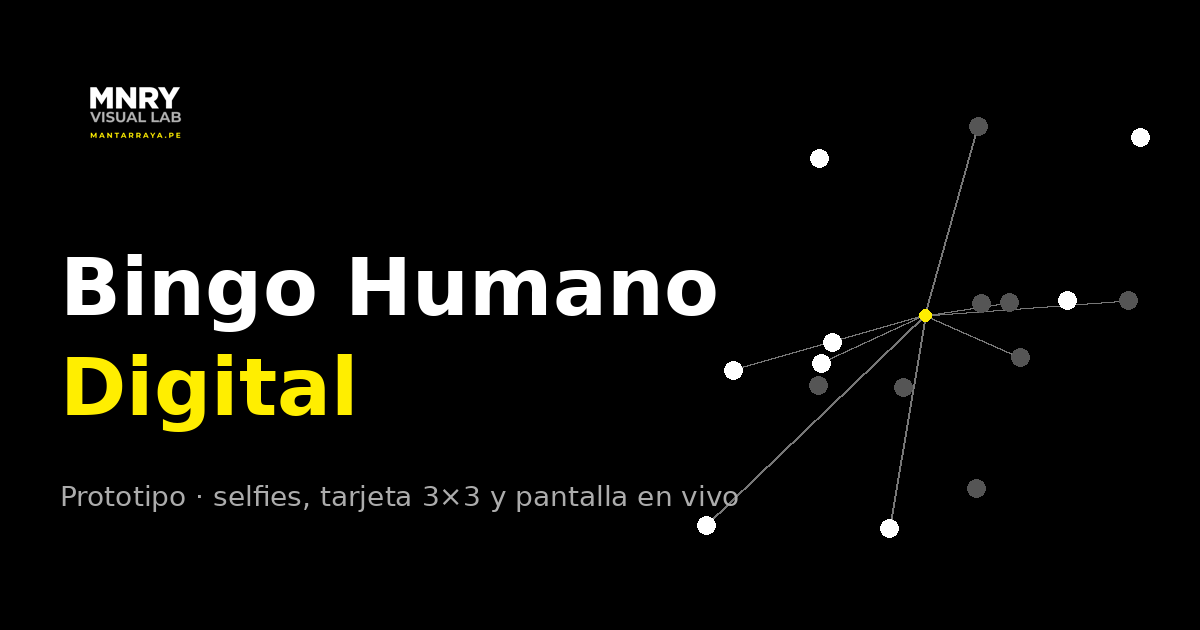
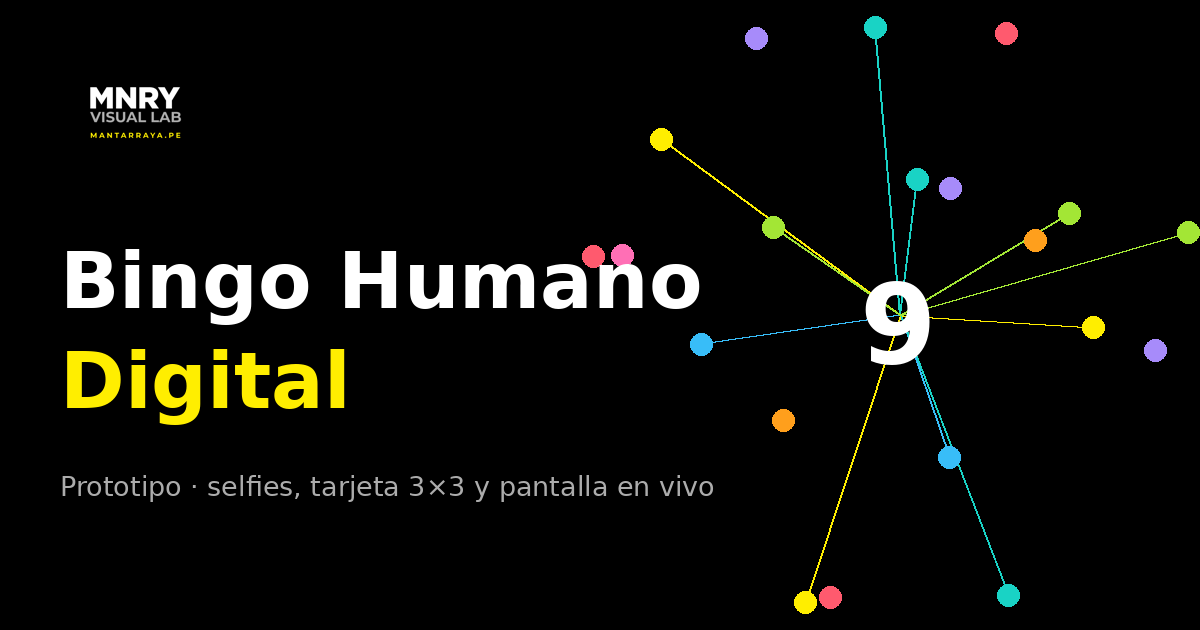
Bingo Humano: interfaz más alegre (colores vivos, letra redondeada, confeti)
Claude-Session: https://claude.ai/code/session_012zVcptRNUigEmjnsZx244j

diff --git a/bingo-humano/index.html b/bingo-humano/index.html
@@ -6,75 +6,89 @@
 <meta property="og:description" content="Simulación del juego de networking con selfies: celular, tarjeta 3×3, pantalla del evento y podio. Por MNRY Visual Lab.">
 <meta property="og:image" content="https://bingo-humano.onrender.com/og.png"><meta property="og:image:width" content="1200"><meta property="og:image:height" content="630">
 <meta property="og:type" content="website">
+<link href="https://fonts.googleapis.com/css2?family=Fredoka:wght@400;500;600;700&family=Nunito:wght@500;700;800&display=swap" rel="stylesheet">
 <style>
-:root{--dk:#000000;--dk2:#1c1c1c;--lt:#F2F2F2;--a1:#FFEE00;--a2:#ACACAC;--a3:#818181;--a4:#D9D9D9;--mut:#9a9a9a}
+:root{--ye:#FFEE00;--co:#FF5A6E;--tu:#19D3C5;--vi:#A78BFA;--li:#A3E635;--or:#FF9F1C;--sk:#38BDF8;--pk:#FF6FB5;--ink:#1a1a2e;--mut:#9a9a9a}
 *{box-sizing:border-box;margin:0}
-body{font-family:Calibri,Segoe UI,Arial,sans-serif;background:var(--dk);color:#fff;min-height:100vh}
+body{font-family:Nunito,Segoe UI,Arial,sans-serif;background:#000;color:#fff;min-height:100vh}
 header{padding:14px 22px;display:flex;justify-content:space-between;align-items:center;flex-wrap:wrap;gap:8px}
-.logo{letter-spacing:.3em;font-size:12px;color:var(--mut);font-weight:700}
-h1{font-family:Cambria,Georgia,serif;font-size:22px}
+h1{font-family:Fredoka,Nunito,sans-serif;font-size:24px;font-weight:600}
 .bar{display:flex;gap:8px;flex-wrap:wrap}
-button{font:inherit;cursor:pointer;border:0;border-radius:10px;padding:9px 14px;font-weight:700;background:var(--a1);color:var(--dk)}
-button.s{background:var(--dk2);color:#fff}
+button,select{font:inherit;cursor:pointer;border:0;border-radius:999px;padding:10px 18px;font-weight:800;background:var(--ye);color:#000}
+button.s,select{background:#1f1f1f;color:#fff}
 button:disabled{opacity:.4;cursor:default}
-main{display:grid;grid-template-columns:360px 1fr;gap:20px;padding:0 22px 22px;align-items:start}
+button:active{transform:scale(.97)}
+main{display:grid;grid-template-columns:370px 1fr;gap:20px;padding:0 22px 22px;align-items:start}
 @media(max-width:900px){main{grid-template-columns:1fr}}
-.phone{background:#000;border-radius:34px;padding:14px;border:2px solid var(--dk2);max-width:360px;margin:auto;width:100%}
-.ps{background:var(--lt);color:var(--dk);border-radius:22px;min-height:560px;padding:18px;display:flex;flex-direction:column;gap:12px}
-.ps h2{font-family:Cambria,Georgia,serif;font-size:20px}
-.ps p.m{color:#5a6780;font-size:14px}
-input{font:inherit;padding:12px;border-radius:10px;border:2px solid #cdd5e3;width:100%}
-input:focus{outline:0;border-color:var(--a1)}
-.grid{display:grid;grid-template-columns:repeat(3,1fr);gap:8px}
-.sq{aspect-ratio:1;border-radius:12px;background:#fff;border:2px dashed #cdd5e3;padding:6px;font-size:11px;font-weight:700;display:flex;align-items:center;justify-content:center;text-align:center;cursor:pointer;position:relative;line-height:1.15}
-.sq.done{border:0;color:var(--dk);cursor:default;align-items:flex-end}
-.sq.done .ph{position:absolute;inset:0;border-radius:12px;display:flex;align-items:center;justify-content:center;font-size:30px;opacity:.9}
-.sq.done span{position:relative;background:rgba(255,255,255,.85);border-radius:6px;padding:1px 5px;font-size:11px}
-.sheet{background:#fff;border-radius:14px;padding:14px;box-shadow:0 4px 18px rgba(0,0,0,.2);display:flex;flex-direction:column;gap:10px}
-.sheet .r{font-weight:700}
+.phone{background:#111;border-radius:38px;padding:12px;border:2px solid #2a2a2a;max-width:370px;margin:auto;width:100%}
+.ps{background:linear-gradient(180deg,#FFF9DB,#FFFFFF 40%);color:var(--ink);border-radius:28px;min-height:580px;padding:18px;display:flex;flex-direction:column;gap:12px}
+.ps h2{font-family:Fredoka,Nunito,sans-serif;font-size:24px;font-weight:600}
+.ps p.m{color:#5b5b73;font-size:14px;font-weight:700}
+.badge{align-self:flex-start;background:var(--ye);color:#000;font-weight:800;font-size:12px;letter-spacing:.12em;border-radius:999px;padding:5px 12px}
+input{font:inherit;font-weight:700;padding:13px 16px;border-radius:16px;border:3px solid #e6e6ef;width:100%}
+input:focus{outline:0;border-color:var(--ye);box-shadow:0 0 0 4px #fff3a0}
+.grid{display:grid;grid-template-columns:repeat(3,1fr);gap:9px}
+.sq{aspect-ratio:1;border-radius:18px;padding:6px;font-size:11.5px;font-weight:800;display:flex;flex-direction:column;align-items:center;justify-content:center;gap:3px;text-align:center;cursor:pointer;line-height:1.1;color:var(--ink);box-shadow:0 3px 0 rgba(0,0,0,.12);transition:transform .12s}
+.sq:hover{transform:translateY(-2px) rotate(-1deg)}
+.sq .e{font-size:24px}
+.sq.done{cursor:default;position:relative}
+.sq.done:hover{transform:none}
+.sq.done .ck{position:absolute;top:5px;right:6px;background:#fff;border-radius:999px;width:20px;height:20px;font-size:12px;display:flex;align-items:center;justify-content:center}
+.sq.done b{font-family:Fredoka,sans-serif;font-size:14px;font-weight:600}
+.prog{height:12px;border-radius:999px;background:#ececf4;overflow:hidden}
+.prog i{display:block;height:100%;background:linear-gradient(90deg,var(--ye),var(--or),var(--co));border-radius:999px;transition:width .4s}
+.sheet{background:#fff;border-radius:18px;padding:14px;box-shadow:0 6px 20px rgba(26,26,46,.12);display:flex;flex-direction:column;gap:10px}
+.sheet .r{font-weight:800}
 .opts{display:flex;flex-direction:column;gap:6px;max-height:190px;overflow:auto}
-.opt{padding:10px;border-radius:8px;background:var(--lt);cursor:pointer;font-weight:600}
-.opt:hover{background:#fff7a8}
-.err{color:#c0334a;font-size:13px;font-weight:700;min-height:16px}
-.q{background:#fffbd1;border-radius:10px;padding:10px;font-size:14px}
-.screen{background:var(--dk2);border-radius:16px;padding:14px}
+.opt{padding:11px 14px;border-radius:14px;background:#f4f4fa;cursor:pointer;font-weight:800}
+.opt:hover{background:#fff3a0}
+.err{color:#d6284a;font-size:13px;font-weight:800;min-height:16px}
+.q{background:#FFF3B0;border-radius:14px;padding:11px 12px;font-size:14px;font-weight:700}
+.screen{background:#0c0c14;border-radius:22px;padding:14px;border:1px solid #23233a}
 .top{display:flex;justify-content:space-between;align-items:center;margin-bottom:8px;flex-wrap:wrap;gap:6px}
-.top b{font-family:Cambria,Georgia,serif;font-size:18px}
-.cols{display:grid;grid-template-columns:1fr 230px;gap:12px}
+.top b{font-family:Fredoka,sans-serif;font-size:20px;font-weight:600}
+.cols{display:grid;grid-template-columns:1fr 240px;gap:12px}
 @media(max-width:700px){.cols{grid-template-columns:1fr}}
-svg{width:100%;background:radial-gradient(ellipse at 50% 40%,#2b2b2b,#000000 75%);border-radius:12px;display:block}
-.rank{background:var(--dk);border-radius:12px;padding:10px;font-size:14px}
-.rank h3{font-size:13px;color:var(--mut);letter-spacing:.15em;margin-bottom:6px}
-.row{display:flex;justify-content:space-between;padding:4px 0;border-bottom:1px solid var(--dk2)}
-.row.me{color:var(--a1);font-weight:700}
-.podium{display:none;margin-top:12px;background:var(--dk);border-radius:12px;padding:14px;text-align:center}
+svg{width:100%;background:radial-gradient(ellipse at 50% 45%,#1f1f3a,#07070d 75%);border-radius:16px;display:block}
+.rank{background:#13131f;border-radius:16px;padding:12px;font-size:14px;font-weight:700}
+.rank h3{font-family:Fredoka,sans-serif;font-size:13px;color:#b9b9d0;letter-spacing:.14em;margin-bottom:6px;font-weight:600}
+.row{display:flex;justify-content:space-between;align-items:center;padding:5px 0;gap:8px}
+.row .bar2{height:6px;border-radius:99px;background:#26263a;flex:1;overflow:hidden;max-width:60px}
+.row .bar2 i{display:block;height:100%;background:var(--ye)}
+.row.me{color:var(--ye)}
+.podium{display:none;margin-top:12px;background:#13131f;border-radius:18px;padding:16px;text-align:center}
 .podium.on{display:block}
-.pod{display:flex;justify-content:center;align-items:flex-end;gap:10px;margin-top:8px}
-.pod div{width:90px;border-radius:8px 8px 0 0;padding:8px 4px;font-weight:700;color:var(--dk)}
+.podium .t{font-family:Fredoka,sans-serif;font-size:24px;font-weight:600}
+.pod{display:flex;justify-content:center;align-items:flex-end;gap:10px;margin-top:10px}
+.pod div{width:104px;border-radius:14px 14px 0 0;padding:10px 4px;font-family:Fredoka,sans-serif;font-weight:600;color:#1a1a2e;font-size:15px}
+.pod .md{font-size:26px;display:block}
 .note{font-size:12px;color:var(--mut);margin-top:10px}
+canvas#cf{position:fixed;inset:0;width:100%;height:100%;pointer-events:none;z-index:50}
 </style></head><body>
+<canvas id="cf"></canvas>
 <header><div><img src="logo.png" alt="MNRY Visual Lab" style="height:46px;display:block;margin-bottom:6px"><h1>Bingo Humano Digital · Prototipo</h1></div>
-<div class="bar"><select id="selN" style="font:inherit;padding:9px;border-radius:10px;border:0;background:#1c1c1c;color:#fff;font-weight:700"><option value="30">30 personas</option><option value="80" selected>80 personas</option><option value="150">150 personas</option></select><button class="s" id="bTime">Terminar el tiempo</button><button class="s" id="bReset">Reiniciar</button></div></header>
+<div class="bar"><select id="selN"><option value="30">30 personas</option><option value="80" selected>80 personas</option><option value="150">150 personas</option></select><button class="s" id="bTime">Terminar el tiempo</button><button class="s" id="bReset">Reiniciar</button></div></header>
 <main>
 <div class="phone"><div class="ps" id="ps"></div></div>
 <div>
  <div class="screen">
-  <div class="top"><b>Pantalla del evento</b><span id="stat" style="color:var(--mut);font-size:14px"></span></div>
-  <div class="cols"><svg id="map" viewBox="0 0 800 520"></svg><div class="rank"><h3>RANKING</h3><div id="rk"></div><h3 style="margin-top:12px">ÚLTIMAS SELFIES</h3><div id="feed" style="font-size:13px;color:#d0d0d0"></div></div></div>
-  <div class="podium" id="pod"><div style="font-family:Cambria,Georgia,serif;font-size:20px">¡Juego terminado!</div><div class="pod" id="podx"></div></div>
+  <div class="top"><b>Pantalla del evento</b><span id="stat" style="color:#b9b9d0;font-size:14px;font-weight:700"></span></div>
+  <div class="cols"><svg id="map" viewBox="0 0 800 520"></svg><div class="rank"><h3>RANKING</h3><div id="rk"></div><h3 style="margin-top:12px">ÚLTIMAS SELFIES</h3><div id="feed" style="font-size:13px;color:#d6d6e6;font-weight:600"></div></div></div>
+  <div class="podium" id="pod"><div class="t" id="podt">¡Juego terminado!</div><div class="pod" id="podx"></div></div>
  </div>
- <p class="note">Simulación: el centro muestra un reto y cuántas personas ya lo cumplieron; esas personas se iluminan y cambia de reto solo. Tú eres un punto más (el amarillo). Los otros jugadores son de ejemplo y se conectan solos. Cambia arriba entre 30, 80 y 150 personas para ver cómo se llena la pantalla. En el evento real cada persona usa su propio celular y las fotos se quedan en el celular.</p>
+ <p class="note">Simulación: el centro muestra un reto y cuántas personas ya lo cumplieron; esas personas se iluminan y el reto cambia solo. Tú eres un punto más (el que tiene aro blanco). Los otros jugadores son de ejemplo y se conectan solos. Cambia arriba entre 30, 80 y 150 personas. En el evento real cada persona usa su propio celular y las fotos se quedan en el celular.</p>
 </div>
 </main>
 <script>
 const FN=["Ana","Luis","Marta","Diego","Rosa","Carlos","Sofía","Jorge","Lucía","Pedro","Valeria","Andrés","Camila","Renzo","Milagros","Hugo","Daniela","Mateo","Elena","Raúl","Paola","Iván","Nora","Fabio","Karla","Óscar","Julia","Percy","Alicia","Rodrigo"];
 const LN="ABCDEFGHJLMPRSTV";
-function mkNames(n){const a=[];for(let i=0;i<n;i++){const f=FN[i%FN.length];a.push(i<FN.length?f:f+" "+LN[(i*7)%LN.length]+".")}return a}
 const RETOS=["Ha viajado a más de 5 países","Habla otro idioma","Tiene mascota","Toca un instrumento","Le gusta cocinar","Nació fuera de Lima","Trabaja en marketing","Hace deporte","Tiene hermanos gemelos o mellizos"];
+const EM=["✈","🗣","🐾","🎸","🍳","📍","💼","⚽","👯"];
 const PREG=["¿Cuál es tu comida favorita?","¿Qué lugar te gustaría visitar?","¿Qué serie recomiendas?","¿Cuál fue tu primer trabajo?","¿Qué hacías de niño los sábados?","¿Qué canción no puede faltar en una fiesta?"];
-const COL=["#FFEE00","#2EC4B6","#E85D75","#5B8DEF","#FFD27F"];
-const EMO=["🤳","😄","📸","🙌","😎","🤝"];
+const COL=["#FFEE00","#FF8FA0","#5EEAD4","#C4B5FD","#BEF264","#FFC15E","#7DD3FC","#FFA6D2","#FFE08A"];
+const PC=["#FFEE00","#FF5A6E","#19D3C5","#A78BFA","#A3E635","#FF9F1C","#38BDF8","#FF6FB5"];
 let G=null;
+function mkNames(n){const a=[];for(let i=0;i<n;i++){const f=FN[i%FN.length];a.push(i<FN.length?f:f+" "+LN[(i*7)%LN.length]+".")}return a}
 function layout(n){
  const W=800,H=500,pts=Array.from({length:n},()=>({x:40+Math.random()*(W-80),y:30+Math.random()*(H-60)}));
  for(let it=0;it<70;it++){for(let i=0;i<n;i++)for(let j=i+1;j<n;j++){let dx=pts[j].x-pts[i].x,dy=pts[j].y-pts[i].y,d=Math.hypot(dx,dy)||1,m=n>100?34:50;
@@ -85,37 +99,36 @@ function reset(){
  clearInterval(G&&G.timer);clearInterval(G&&G.fade);
  const n=+selN.value,nm=mkNames(n),pts=layout(n);
  G={me:null,players:nm.map((name,i)=>({id:i,name,conn:new Set(),retos:new Set(),t:[],bot:true,p:1/(12+Math.random()*14),x:pts[i].x,y:pts[i].y})),
-  links:[],cur:0,over:false,card:Array(9).fill(null),feed:[],k:Math.max(1,Math.ceil(n/14))};
+  links:[],cur:0,over:false,card:Array(9).fill(null),feed:[]};
  G.timer=setInterval(botStep,1000);G.fade=setInterval(()=>{G.cur=(G.cur+1)%9;draw()},4500);
- document.getElementById("pod").classList.remove("on");
+ pod.classList.remove("on");
  viewName();draw();
 }
 function viewName(){
- ps.innerHTML=`<h2>Bienvenido/a</h2><p class="m">Escribe tu nombre para entrar al juego. No necesitas descargar nada.</p><input id="nm" placeholder="Tu nombre" maxlength="18"><button id="go">Entrar</button><p class="m" style="margin-top:auto">Sala: <b>BINGO-482</b></p>`;
+ ps.innerHTML=`<span class="badge">BINGO HUMANO</span><h2>¡Bienvenido/a! 👋</h2><p class="m">Escribe tu nombre para entrar al juego. No necesitas descargar nada.</p><input id="nm" placeholder="Tu nombre" maxlength="18"><button id="go">Entrar al juego</button><p class="m" style="margin-top:auto">Sala: <b>BINGO-482</b></p>`;
  go.onclick=()=>{const v=nm.value.trim();if(!v)return;
   const p=G.players[G.players.length-1];p.name=v;p.bot=false;G.me=p;viewCard();draw()}
 }
 function viewCard(msg){
  const me=G.me,done=G.card.filter(Boolean).length;
- ps.innerHTML=`<h2>Hola, ${esc(me.name)}</h2><p class="m">Toca una casilla, tómate la selfie y elige a la persona.</p>
- <div class="grid">${RETOS.map((r,i)=>{const c=G.card[i];return c?`<div class="sq done" style="background:${COL[i%5]}"><div class="ph">${EMO[i%6]}</div><span>${esc(c.name)}</span></div>`:`<div class="sq" data-i="${i}">${r}</div>`}).join("")}</div>
- <p class="m"><b>${done} de 9</b> casillas${G.over?" · el juego terminó":""}</p><div class="err">${msg||""}</div>`;
+ ps.innerHTML=`<span class="badge">BINGO HUMANO</span><h2>¡Hola, ${esc(me.name)}! 🙌</h2><p class="m">Toca una casilla, tómate la selfie y elige a la persona.</p>
+ <div class="grid">${RETOS.map((r,i)=>{const c=G.card[i];return c?`<div class="sq done" style="background:${COL[i]}"><span class="ck">✓</span><span class="e">🤳</span><b>${esc(c.name)}</b></div>`:`<div class="sq" data-i="${i}" style="background:${COL[i]}"><span class="e">${EM[i]}</span>${r}</div>`}).join("")}</div>
+ <div class="prog"><i style="width:${done/9*100}%"></i></div><p class="m"><b>${done} de 9</b> casillas${G.over?" · el juego terminó":""}</p><div class="err">${msg||""}</div>`;
  if(!G.over)ps.querySelectorAll(".sq:not(.done)").forEach(e=>e.onclick=()=>viewPick(+e.dataset.i));
 }
 function viewPick(i){
- ps.innerHTML=`<h2>${RETOS[i]}</h2><div class="sheet"><div class="r">📸 Selfie tomada (queda solo en tu celular)</div><div class="q">${PREG[i%6]}</div></div>
+ ps.innerHTML=`<span class="badge">${EM[i]} RETO</span><h2>${RETOS[i]}</h2><div class="sheet"><div class="r">📸 Selfie tomada (queda solo en tu celular)</div><div class="q">${PREG[i%6]}</div></div>
  <p class="m">¿Con quién te la tomaste? Escribe unas letras:</p><input id="bs" placeholder="Buscar nombre" autocomplete="off"><div class="opts" id="op"></div><div class="err" id="er"></div><button class="s" id="bk">Volver</button>`;
  bk.onclick=()=>viewCard();
- const show=()=>{const q=bs.value.trim().toLowerCase();op.innerHTML="";
-  if(!q)return;
+ bs.oninput=()=>{const q=bs.value.trim().toLowerCase();op.innerHTML="";if(!q)return;
   G.players.filter(p=>p.name.toLowerCase().includes(q)).slice(0,6).forEach(p=>{const d=document.createElement("div");d.className="opt";d.textContent=p.name;d.onclick=()=>pick(i,p);op.appendChild(d)})};
- bs.oninput=show;bs.focus();
+ bs.focus();
 }
 function pick(i,p){
  const me=G.me;
  if(p===me)return er.textContent="No puedes elegirte a ti mismo/a.";
  if(G.card.some(c=>c&&c.id===p.id))return er.textContent=p.name+" ya está en tu tarjeta. Elige a otra persona.";
- G.card[i]=p;connect(me,p,i);G.cur=i;draw();viewCard(); check(me);
+ G.card[i]=p;connect(me,p,i);G.cur=i;draw();burst(innerWidth*.2,innerHeight*.5,26);viewCard();check(me);
 }
 function connect(a,b,ri){a.conn.add(b.id);b.conn.add(a.id);a.retos.add(ri);const t=Date.now();G.links.push([a.id,b.id,t]);a.t.push(t);G.feed.unshift(a.name+" · "+RETOS[ri]);G.feed=G.feed.slice(0,6);draw()}
 function check(p){if(!G.over&&p.t.length>=9)finish()}
@@ -134,27 +147,38 @@ function ranking(){return [...G.players].sort((a,b)=>score(b)-score(a)||(a.t[a.t
 function draw(){
  const P=G.players,r=ranking(),cx=400,cy=250,cur=G.cur;
  const lit=P.filter(p=>p.retos.has(cur)),litIds=new Set(lit.map(p=>p.id));
- let s=`<defs><radialGradient id="gl"><stop offset="0" stop-color="#fff" stop-opacity=".9"/><stop offset="1" stop-color="#fff" stop-opacity="0"/></radialGradient></defs>`;
- lit.forEach(p=>{s+=`<line x1="${cx}" y1="${cy}" x2="${p.x}" y2="${p.y}" stroke="#fff" stroke-opacity=".55" stroke-width="1"/>`});
- P.forEach(p=>{const on=litIds.has(p.id),me=p===G.me,sc=score(p);
-  if(on)s+=`<circle cx="${p.x}" cy="${p.y}" r="${9+sc}" fill="url(#gl)" opacity=".55"/>`;
-  s+=`<circle cx="${p.x}" cy="${p.y}" r="${on?4.5+sc*.45:2.6}" fill="${me?"#FFEE00":"#fff"}" fill-opacity="${on||me?1:.35}"/>`;
-  if(on||me||P.length<=80)s+=`<text x="${p.x}" y="${p.y+(on?18:12)}" fill="#fff" fill-opacity="${on||me?1:.4}" font-size="${on||me?12:9}" letter-spacing=".08em" text-anchor="middle">${esc(p.name.toUpperCase())}${me?" (TÚ)":""}</text>`});
- s+=`<text x="${cx}" y="${cy+14}" fill="#fff" font-family="Cambria,Georgia,serif" font-size="56" text-anchor="middle">${lit.length}</text>`;
- s+=`<text x="${cx}" y="${cy+40}" fill="#d0d0d0" font-size="14" text-anchor="middle">${esc(RETOS[cur])}</text>`;
- s+=`<text x="20" y="28" fill="#ACACAC" font-size="11" letter-spacing=".25em">BINGO HUMANO · ${P.length} PERSONAS</text>`;
+ let s=`<defs><filter id="bl" x="-100%" y="-100%" width="300%" height="300%"><feGaussianBlur stdDeviation="5"/></filter></defs>`;
+ lit.forEach(p=>{s+=`<line x1="${cx}" y1="${cy}" x2="${p.x}" y2="${p.y}" stroke="${PC[p.id%8]}" stroke-opacity=".7" stroke-width="1.6"/>`});
+ P.forEach(p=>{const on=litIds.has(p.id),me=p===G.me,sc=score(p),col=PC[p.id%8];
+  if(on)s+=`<circle cx="${p.x}" cy="${p.y}" r="${11+sc}" fill="${col}" opacity=".55" filter="url(#bl)"/>`;
+  s+=`<circle cx="${p.x}" cy="${p.y}" r="${on?5+sc*.5:3}" fill="${col}" fill-opacity="${on||me?1:.4}"${me?' stroke="#fff" stroke-width="2.5"':''}/>`;
+  if(on||me||P.length<=80)s+=`<text x="${p.x}" y="${p.y+(on?19:13)}" fill="${on||me?"#fff":"#9a9ab5"}" font-family="Nunito,sans-serif" font-weight="${on||me?800:700}" font-size="${on||me?12.5:9}" text-anchor="middle">${esc(p.name)}${me?" (tú)":""}</text>`});
+ s+=`<text x="${cx}" y="${cy-30}" font-size="30" text-anchor="middle">${EM[cur]}</text>`;
+ s+=`<text x="${cx}" y="${cy+30}" fill="#fff" font-family="Fredoka,sans-serif" font-weight="700" font-size="72" text-anchor="middle">${lit.length}</text>`;
+ s+=`<text x="${cx}" y="${cy+56}" fill="#FFEE00" font-family="Fredoka,sans-serif" font-weight="500" font-size="16" text-anchor="middle">${esc(RETOS[cur])}</text>`;
+ s+=`<text x="20" y="28" fill="#b9b9d0" font-family="Fredoka,sans-serif" font-size="12" letter-spacing="3">BINGO HUMANO · ${P.length} PERSONAS</text>`;
  map.innerHTML=s;
- rk.innerHTML=r.slice(0,10).map((p,i)=>`<div class="row ${p===G.me?"me":""}"><span>${i+1}. ${esc(p.name)}</span><span>${score(p)}/9</span></div>`).join("");
+ const medal=["🥇","🥈","🥉"];
+ rk.innerHTML=r.slice(0,10).map((p,i)=>`<div class="row ${p===G.me?"me":""}"><span>${medal[i]||(i+1)+"."} ${esc(p.name)}</span><span class="bar2"><i style="width:${score(p)/9*100}%;background:${PC[p.id%8]}"></i></span><span>${score(p)}/9</span></div>`).join("");
  feed.innerHTML=G.feed.map(f=>`<div>${esc(f)}</div>`).join("");
  const myr=G.me?r.indexOf(G.me)+1:0;
  stat.textContent=`${P.length} jugadores · ${G.links.length} selfies`+(G.me?` · tú vas ${myr}º`:"");
 }
 function finish(){
  G.over=true;clearInterval(G.timer);clearInterval(G.fade);const r=ranking().slice(0,3);
- const h=[110,80,60],c=["#FFEE00","#C9D1E0","#E8A87C"],o=[1,0,2];
- podx.innerHTML=o.filter(i=>r[i]).map(i=>`<div style="height:${h[i]}px;background:${c[i]}">${i+1}º<br>${esc(r[i].name)}<br>${score(r[i])}/9</div>`).join("");
+ const h=[120,88,66],c=["#FFEE00","#E5E7EB","#FFB27A"],o=[1,0,2],md=["🥇","🥈","🥉"];
+ podx.innerHTML=o.filter(i=>r[i]).map(i=>`<div style="height:${h[i]}px;background:${c[i]}"><span class="md">${md[i]}</span>${esc(r[i].name)}<br>${score(r[i])}/9</div>`).join("");
+ podt.textContent=G.me&&r[0]===G.me?"¡Ganaste! 🎉":"¡Juego terminado! 🎉";
  pod.classList.add("on");draw();if(G.me)viewCard();
+ burst(innerWidth*.5,innerHeight*.35,160);setTimeout(()=>burst(innerWidth*.3,innerHeight*.4,90),400);setTimeout(()=>burst(innerWidth*.7,innerHeight*.4,90),700);
 }
+/* confeti */
+const cv=document.getElementById("cf"),cx2=cv.getContext("2d");let parts=[],raf=0;
+function rs(){cv.width=innerWidth;cv.height=innerHeight}rs();addEventListener("resize",rs);
+function burst(x,y,n){for(let i=0;i<n;i++){const a=Math.random()*Math.PI*2,v=3+Math.random()*7;parts.push({x,y,vx:Math.cos(a)*v,vy:Math.sin(a)*v-5,g:.18,r:3+Math.random()*4,c:PC[i%8],rot:Math.random()*6,vr:(Math.random()-.5)*.4,life:90+Math.random()*50})}if(!raf)raf=requestAnimationFrame(tick)}
+function tick(){cx2.clearRect(0,0,cv.width,cv.height);parts=parts.filter(p=>p.life-->0);
+ parts.forEach(p=>{p.vy+=p.g;p.x+=p.vx;p.y+=p.vy;p.vx*=.99;p.rot+=p.vr;cx2.save();cx2.translate(p.x,p.y);cx2.rotate(p.rot);cx2.fillStyle=p.c;cx2.globalAlpha=Math.min(1,p.life/30);cx2.fillRect(-p.r,-p.r/2,p.r*2,p.r);cx2.restore()});
+ raf=parts.length?requestAnimationFrame(tick):0}
 function esc(t){return String(t).replace(/[&<>"]/g,m=>({"&":"&amp;","<":"&lt;",">":"&gt;",'"':"&quot;"}[m]))}
 bTime.onclick=()=>{if(!G.over)finish()};bReset.onclick=reset;selN.onchange=reset;
 reset();
